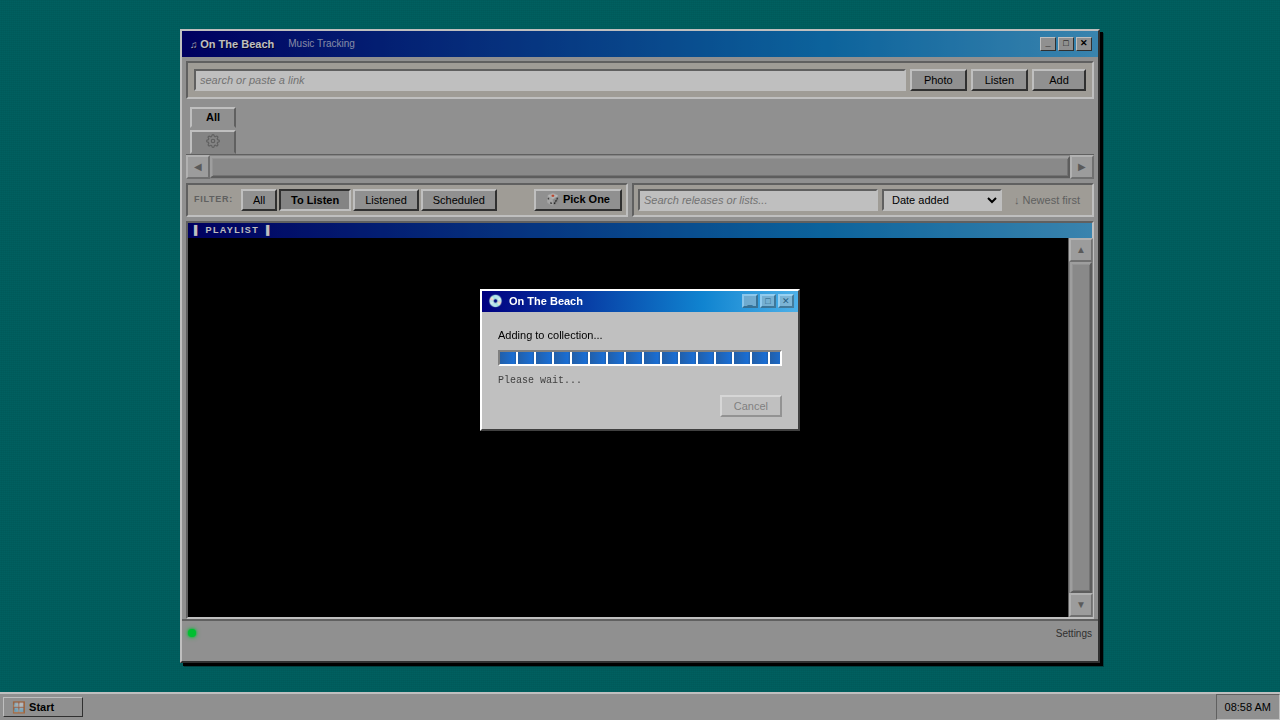
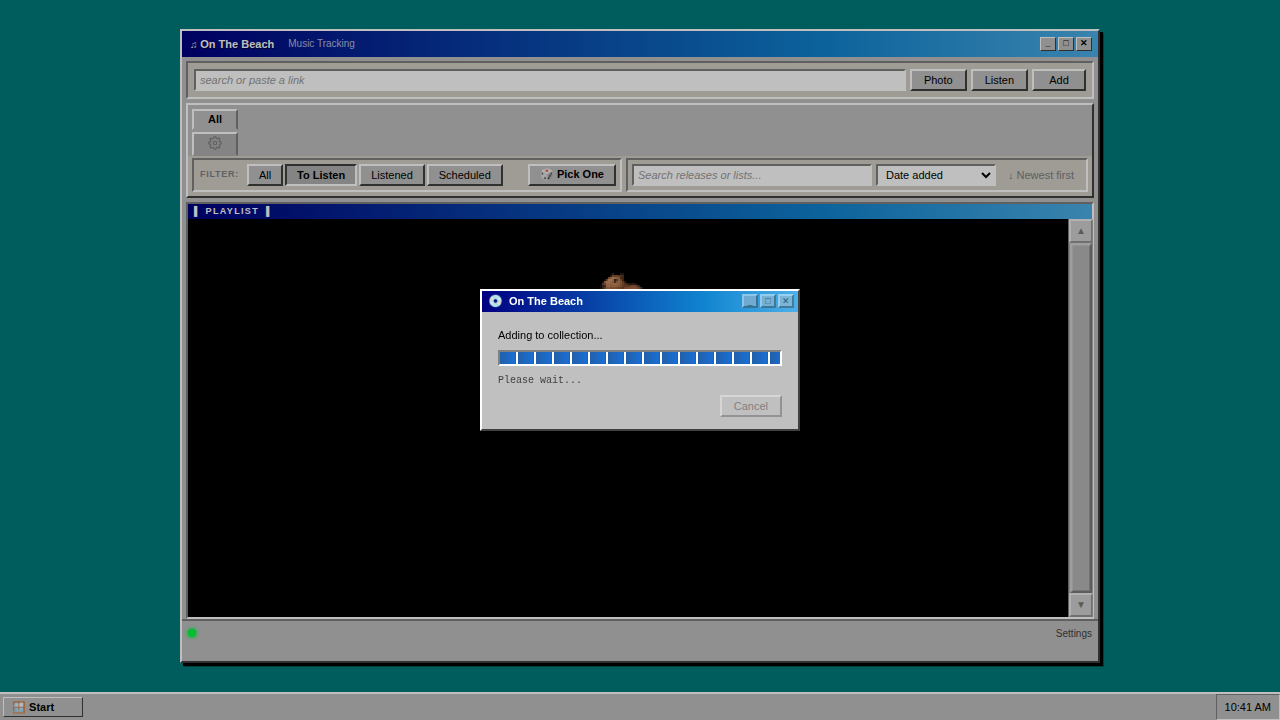
Experiment: unify stack tabs and filter row into one browse panel
Desktop/tablet: the stack tabs, their scrollbar strip, and the
filter/search/sort toolbar fuse into one raised Win95 browse panel with
no gaps — and the stack scrollbar only renders when the tabs actually
overflow, handing its permanently-visible disabled strip back to the
playlist in the common case. Small screens unaffected. Desktop visual
baselines regenerated.

Changed region(s): [[0.125, 0.1222, 0.875, 0.3361], [0.4688, 0.3667, 0.5, 0.4278], [0.9688, 0.9778, 1.0, 1.0]]

diff --git a/src/styles/main.css b/src/styles/main.css
@@ -631,6 +631,32 @@ select.input {
   margin-bottom: 0;
 }
 
+/* Desktop/tablet: stack tabs and the filter toolbar read as one browse
+   panel — a single raised frame, no gap — and the stack scrollbar only
+   appears when the tabs actually overflow. (Small screens dock the filter
+   section at the bottom instead; see the mobile block.) */
+@media (min-width: 521px) {
+  .stack-scrollbar.is-disabled {
+    display: none;
+  }
+
+  .stack-section {
+    background: var(--chrome-panel);
+    border-width: 2px 2px 0 2px;
+    border-style: solid;
+    border-color: var(--bevel-raised);
+  }
+
+  .filter-section {
+    margin-top: calc(-1 * var(--space-2));
+    background: var(--chrome-panel);
+    border-width: 0 2px 2px 2px;
+    border-style: solid;
+    border-color: var(--bevel-raised);
+    padding: var(--space-1) var(--space-2) var(--space-2);
+  }
+}
+
 .stack-bar-shell {
   display: flex;
   flex-direction: column;